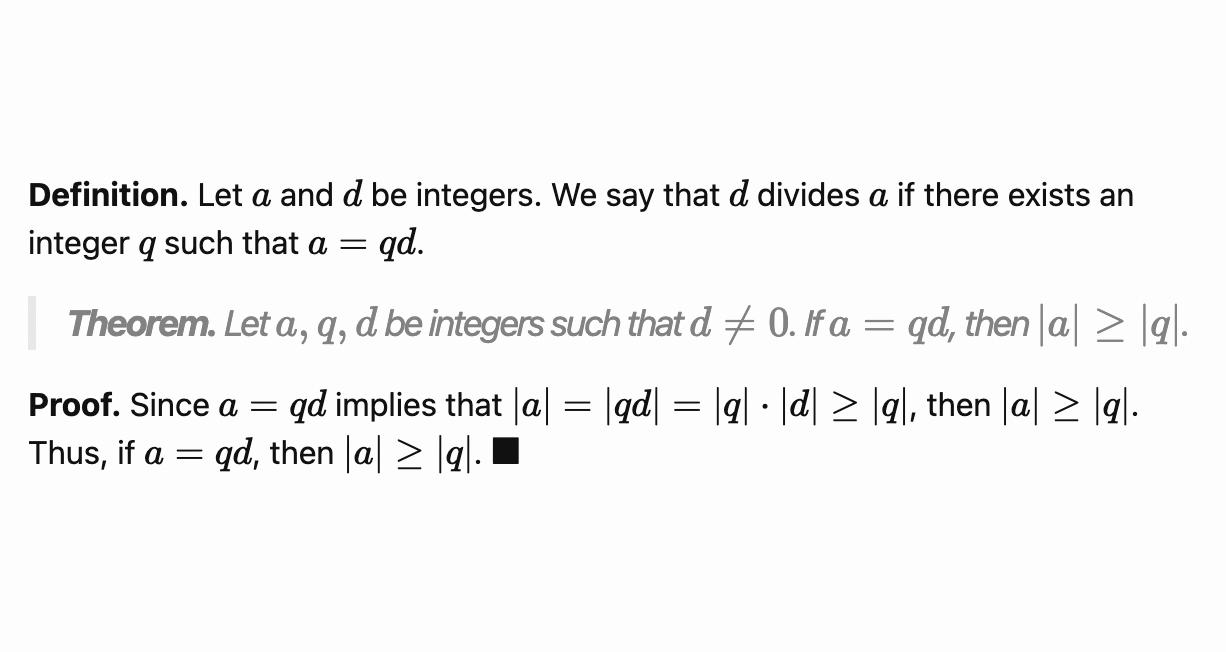
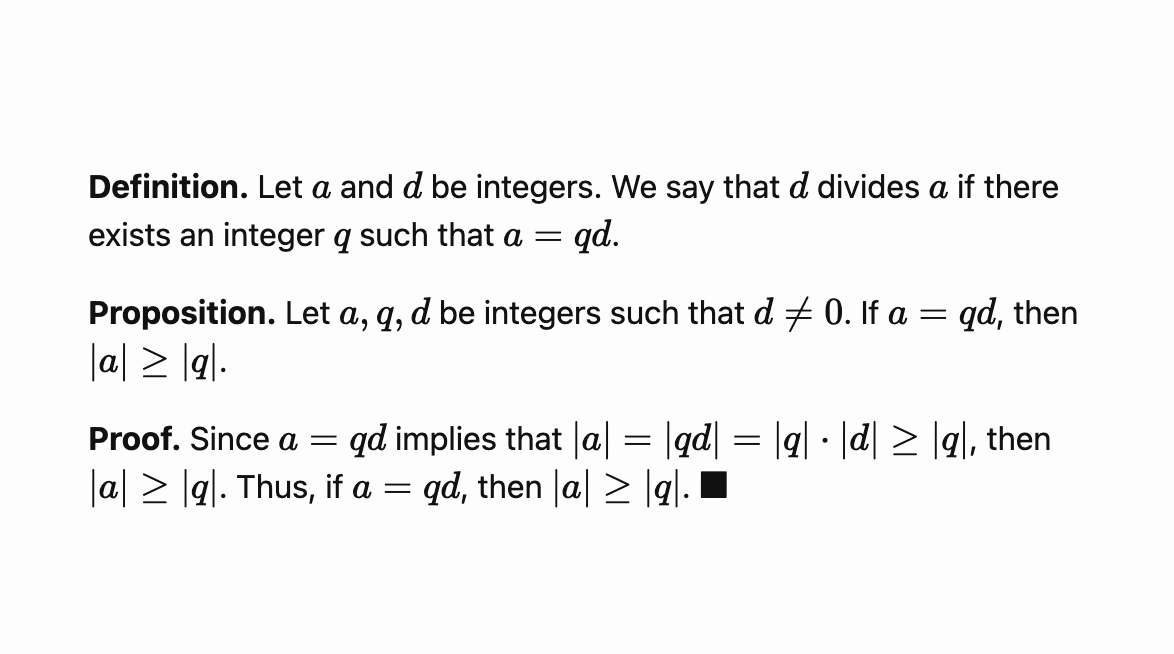
Replaced "Theorem" with Proposition

Changed region(s): [[0.0, 0.4601, 0.9813, 0.7975], [0.0, 0.2454, 0.9199, 0.3988]]

diff --git a/_posts/2021-10-23-integer-divisibility.md b/_posts/2021-10-23-integer-divisibility.md
@@ -14,7 +14,7 @@ Suppose that we are not allowed to use the division operator in a programming la
 
 **Definition.**  Let $a$ and $d$ be integers.  We say that $d$ divides $a$ if there exists an integer $q$ such that $a=qd$.
 
-> **Theorem.** Let $a, q, d$ be integers such that $d \neq 0$.  If $a = qd$, then $ \lvert a \rvert \geq \lvert q \rvert$.
+**Proposition.** Let $a, q, d$ be integers such that $d \neq 0$.  If $a = qd$, then $ \lvert a \rvert \geq \lvert q \rvert$.
 
 **Proof.**  Since $ a=qd $ implies that $\lvert a \rvert = \lvert qd \rvert = \lvert q \rvert \cdot \lvert d \rvert \geq \lvert q \rvert $, then $\lvert a \rvert \geq \lvert q \rvert$.  Thus, if $a = qd$, then $\lvert a \rvert \geq \lvert q \rvert$. $\blacksquare$
 
